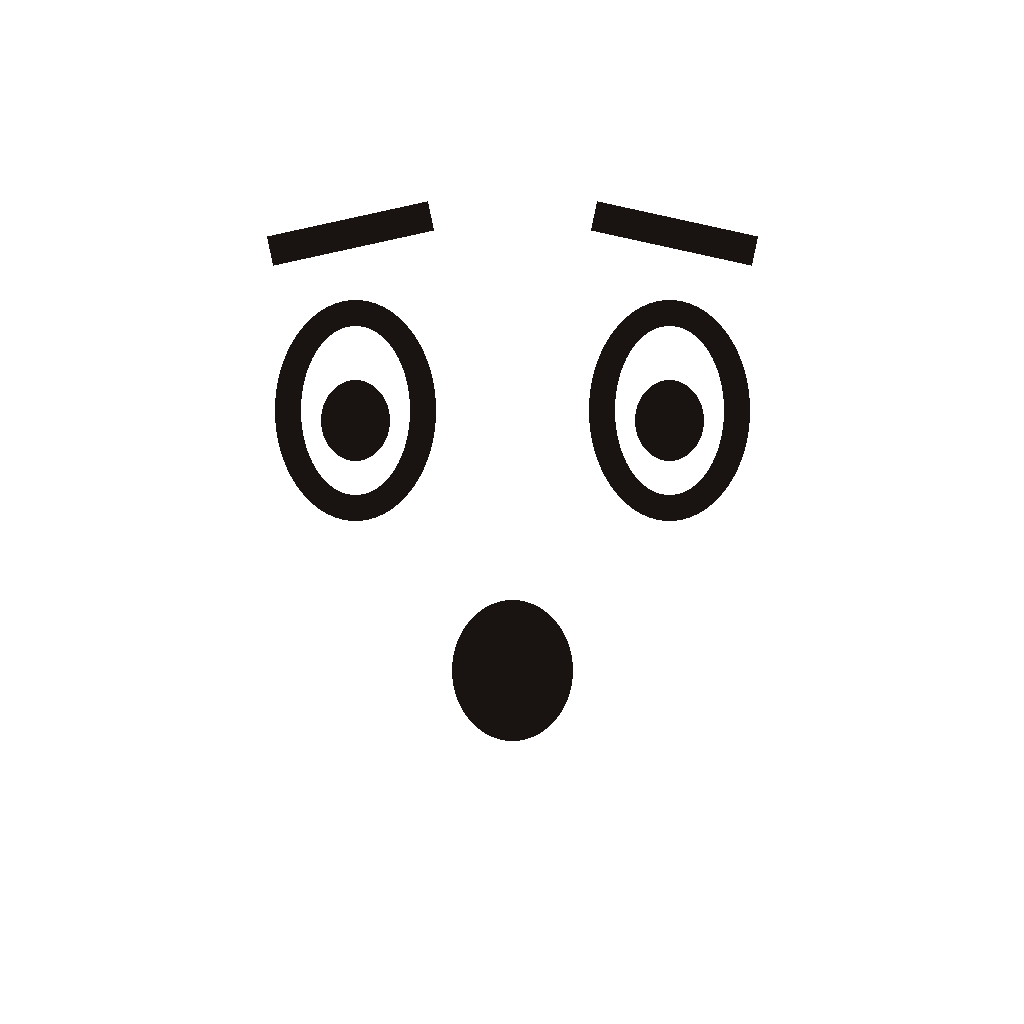
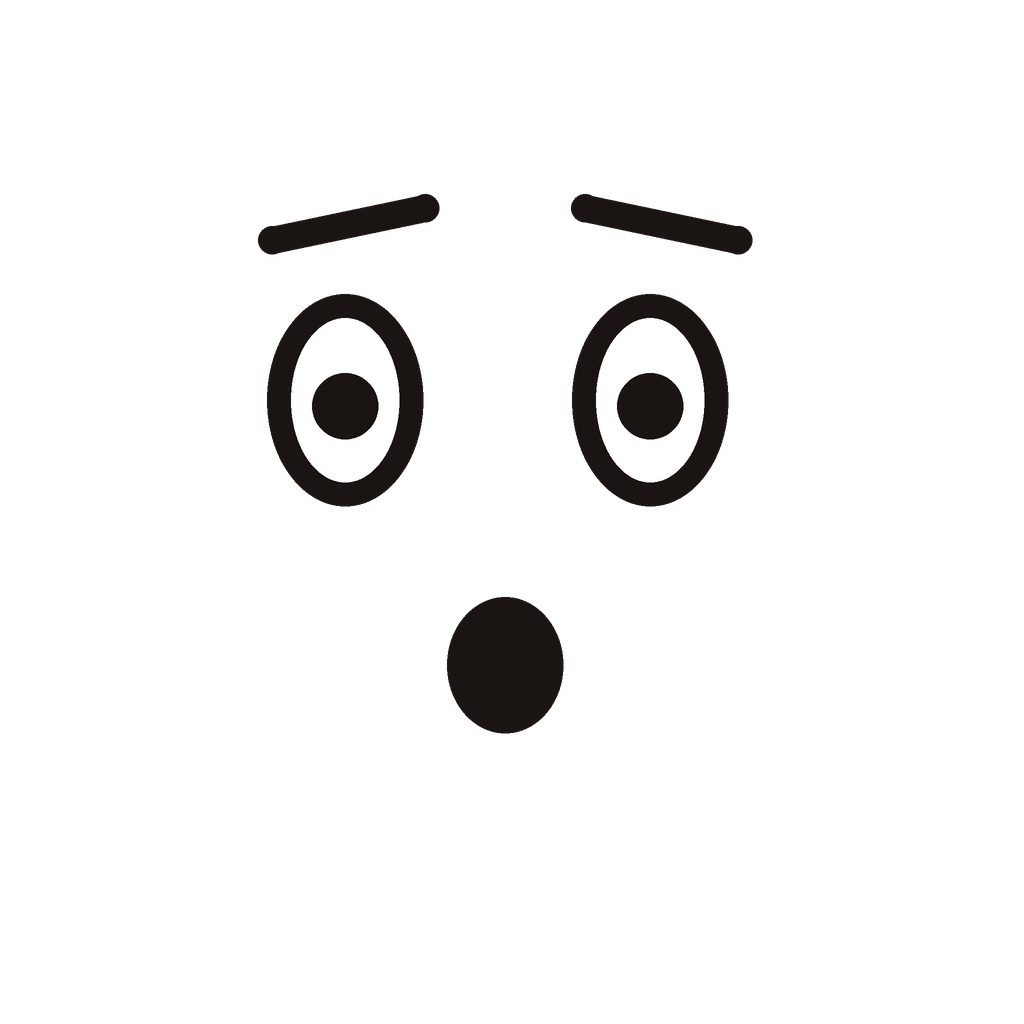
Expressive faces: 14 expressions plus reaction effects
faces.py draws the decals (smile, shock, big_eyes, happy, grin, sad, cry,
angry, annoyed, suspicious, nervous, embarrassed, determined, sleepy).
avatar.react() switches faces at a frame and adds effects: shock and
big_eyes pop the face and jolt the head, angry flushes the head red and
shakes it, cry drips tears.

Claude-Session: https://claude.ai/code/session_013G35NYefDXFSpUsSA2WUmV

diff --git a/pipeline/avatar.py b/pipeline/avatar.py
@@ -2,9 +2,11 @@
 build(D) returns {"root", pivot name -> empty ("torso", "waist", "head", "la", "la_elbow", ..., "rl_ankle"),
 "faces": {"smile", "shock"}, "grips": {"la", "ra"} -> empties in the hands to parent props to}.
 Rotating a pivot bends that joint; pivots have no rotation at rest so (-80, 0, 50) on "ra" raises the right arm."""
-import json, math
+import json, math, os, glob
 import bpy, bmesh
 from mathutils import Vector
+
+ASSETS = os.path.join(os.path.dirname(os.path.abspath(__file__)), "..", "assets") + "/"
 
 
 def _lin(c): return tuple(((x / 255 + 0.055) / 1.055) ** 2.4 if x / 255 > 0.04045 else x / 255 / 12.92 for x in c) + (1,)
@@ -74,18 +76,74 @@ def build(D, name="me"):
     bpy.ops.object.transform_apply(scale=True)
     bv = h.modifiers.new("b", "BEVEL"); bv.width = 0.32; bv.segments = 5; bv.limit_method = 'NONE'
     for p in h.data.polygons: p.use_smooth = True
-    h.data.materials.append(_material("av_skin", D, None, rig["skin"]))
+    # skin colour can blend towards red (angry) or pale blue (cold) via the "flush" mix factor
+    sm = _material("av_skin", D, None, rig["skin"]); nn = sm.node_tree.nodes
+    mix = nn.new("ShaderNodeMixRGB"); mix.name = "flush"; mix.inputs["Fac"].default_value = 0
+    mix.inputs["Color1"].default_value = _lin(rig["skin"]); mix.inputs["Color2"].default_value = _lin((235, 40, 30))
+    sm.node_tree.links.new(mix.outputs["Color"], nn["Principled BSDF"].inputs["Base Color"])
+    h.data.materials.append(sm)
     faces = {}
-    for k in ("smile", "shock"):
+    for k in sorted(os.path.basename(f)[5:-4] for f in glob.glob(ASSETS + "face_*.png")):
         m = bpy.data.materials.new("face_" + k); m.use_nodes = True; m.blend_method = 'CLIP'; m.shadow_method = 'CLIP'
-        nn = m.node_tree.nodes; img = nn.new("ShaderNodeTexImage"); img.image = bpy.data.images.load(D + f"face_{k}.png")
+        nn = m.node_tree.nodes; img = nn.new("ShaderNodeTexImage"); img.image = bpy.data.images.load(ASSETS + f"face_{k}.png")
         pb = nn["Principled BSDF"]; pb.inputs["Roughness"].default_value = 0.5
         m.node_tree.links.new(img.outputs["Color"], pb.inputs["Base Color"]); m.node_tree.links.new(img.outputs["Alpha"], pb.inputs["Alpha"])
         bpy.ops.mesh.primitive_plane_add(size=s[0] * 0.88, location=hc + Vector((0, -s[2] / 2 - 0.012, 0)), rotation=(math.radians(90), 0, 0))
         fo = bpy.context.active_object; fo.name = "face_" + k; fo.data.materials.append(m); fo.parent = head
         fo.location = hc + Vector((0, -s[2] / 2 - 0.012, 0))
         faces[k] = fo
-    faces["shock"].hide_render = True; faces["shock"].hide_viewport = True
+    for k, fo in faces.items(): fo.hide_render = fo.hide_viewport = k != "smile"
 
     grips = {k: _empty("grip_" + k, Vector(g) - Vector(J[k + "_wrist"]), piv[k + "_wrist"]) for k, g in rig["grips"].items()}
-    return {"root": root, **piv, "faces": faces, "grips": grips}
+    return {"root": root, **piv, "faces": faces, "grips": grips, "skin": sm, "face_pos": faces["smile"].location.copy(),
+            "eyes": [hc + Vector((x, -s[2] / 2 - 0.03, 0.06)) for x in (-0.22, 0.22)], "reacts": []}
+
+
+def react(av, face, f0, f1=None):
+    """Switch to an expression at frame f0 (held until the next react). Some faces add effects up to f1:
+    shock / big_eyes pop the face bigger, angry flushes the head red and shakes it, cry drips tears.
+    Faces: see faces.py (smile, shock, big_eyes, happy, grin, sad, cry, angry, annoyed, suspicious, nervous, ...)."""
+    f1 = f1 if f1 is not None else f0 + 45
+    prev = av["reacts"][-1][1] if av["reacts"] else "smile"
+    for k, fo in av["faces"].items():
+        if not av["reacts"]: _vis(fo, k == "smile", 0)
+        _vis(fo, k == prev, f0 - 1); _vis(fo, k == face, f0)
+    av["reacts"].append((f0, face))
+    fo = av["faces"][face]
+    if face in ("shock", "big_eyes"):
+        for f, sc in ((f0 - 1, 1.0), (f0 + 3, 1.28), (f0 + 8, 1.0)):
+            fo.scale = (sc, sc, sc); fo.keyframe_insert("scale", frame=f)
+        h = av["head"]; base = h.rotation_euler.copy()
+        for f, dx in ((f0, 0), (f0 + 3, -9), (f0 + 9, 0)):
+            h.rotation_euler = (base.x + math.radians(dx), base.y, base.z); h.keyframe_insert("rotation_euler", frame=f)
+    if face == "angry":
+        fac = av["skin"].node_tree.nodes["flush"].inputs["Fac"]
+        for f, v in ((f0, 0), (f0 + 10, 0.55), (f1 - 8, 0.55), (f1, 0)):
+            fac.default_value = v; fac.keyframe_insert("default_value", frame=f)
+        h = av["head"]; base = h.rotation_euler.copy()
+        for i, f in enumerate(range(f0 + 6, min(f1, f0 + 30), 2)):  # quick shake
+            h.rotation_euler = (base.x, base.y + math.radians(4 if i % 2 else -4), base.z); h.keyframe_insert("rotation_euler", frame=f)
+        h.rotation_euler = base; h.keyframe_insert("rotation_euler", frame=min(f1, f0 + 32))
+    if face == "cry":
+        _tears(av, f0, f1)
+
+
+def _vis(o, on, f):
+    o.hide_render = not on; o.keyframe_insert("hide_render", frame=f)
+    o.hide_viewport = not on; o.keyframe_insert("hide_viewport", frame=f)
+
+
+def _tears(av, f0, f1, every=7):
+    m = bpy.data.materials.get("tear") or _material("tear", "", None, (110, 185, 255))
+    m.node_tree.nodes["Principled BSDF"].inputs["Roughness"].default_value = 0.05
+    for i, f in enumerate(range(f0 + 4, f1 - 10, every)):
+        eye = av["eyes"][i % 2]
+        bpy.ops.mesh.primitive_uv_sphere_add(radius=0.055, segments=12, ring_count=8)
+        t = bpy.context.active_object; t.name = "tear"; t.data.materials.append(m); t.parent = av["head"]
+        t.scale = (0.8, 0.8, 1.3)
+        for fr, off, vis in ((f - 1, 0, False), (f, 0, True), (f + 12, -0.75, True), (f + 13, -0.75, False)):
+            t.location = eye + Vector((0, -0.02, off)); t.keyframe_insert("location", frame=fr)
+            t.hide_render = not vis; t.keyframe_insert("hide_render", frame=fr)
+        for fc in t.animation_data.action.fcurves:
+            for kp in fc.keyframe_points: kp.interpolation = 'QUAD' if fc.data_path == "location" else 'CONSTANT'
+        t.hide_render = True

diff --git a/pipeline/faces.py b/pipeline/faces.py
@@ -1,0 +1,141 @@
+"""Draws the avatar's expression decals into assets/face_<name>.png (1024x1024, transparent, classic Roblox style).
+Run: python3 faces.py  (writes every face; avatar.py loads them all and react() switches between them)."""
+import os, math
+from PIL import Image, ImageDraw
+
+OUT = os.path.join(os.path.dirname(os.path.abspath(__file__)), '..', 'assets')
+S = 2  # supersample for smooth edges
+INK, WHITE, TEAR, BLUSH, SWEAT = (26, 20, 18, 255), (255, 255, 255, 255), (90, 170, 255, 235), (240, 90, 100, 120), (150, 210, 255, 255)
+EYE_L, EYE_R, MOUTH_Y = 345, 650, 640   # face layout matches the original smile/shock decals
+
+
+def canvas(): return Image.new("RGBA", (1024 * S, 1024 * S), (0, 0, 0, 0))
+def s(*v): return [x * S for x in v]
+
+
+def ell(d, cx, cy, rx, ry, fill): d.ellipse(s(cx - rx, cy - ry, cx + rx, cy + ry), fill=fill)
+
+
+def thick(d, pts, w, fill=INK):
+    """Polyline with round caps and joints."""
+    d.line([tuple(s(*p)) for p in pts], fill=fill, width=w * S, joint="curve")
+    for p in (pts[0], pts[-1]): ell(d, p[0], p[1], w / 2, w / 2, fill)
+
+
+def arc(d, cx, cy, rx, ry, a0, a1, w, fill=INK, n=40):
+    thick(d, [(cx + rx * math.cos(math.radians(a0 + (a1 - a0) * i / n)), cy + ry * math.sin(math.radians(a0 + (a1 - a0) * i / n)))
+              for i in range(n + 1)], w, fill)
+
+
+def dot_eyes(d, ry=82, rx=47, shine=True):
+    for x in (EYE_L, EYE_R):
+        ell(d, x, 400, rx, ry, INK)
+        if shine: ell(d, x - 8, 360, 15, 24, WHITE)
+
+
+def big_eyes(d, r=(78, 106), pupil=38, look=(0, 6), ring=24):
+    for x in (EYE_L, EYE_R):
+        ell(d, x, 400, r[0], r[1], INK); ell(d, x, 400, r[0] - ring, r[1] - ring, WHITE)
+        ell(d, x + look[0], 400 + look[1], pupil, pupil, INK)
+
+
+def brows(d, l, r, w=28):
+    thick(d, l, w); thick(d, r, w)
+
+
+def face_smile(d):
+    brows(d, [(276, 254), (410, 254)], [(580, 254), (714, 254)]); dot_eyes(d); arc(d, 495, 545, 175, 165, 25, 155, 40)
+
+
+def face_shock(d):
+    brows(d, [(272, 240), (425, 208)], [(585, 208), (738, 240)]); big_eyes(d, r=(78, 106), pupil=33)
+    ell(d, 505, 665, 58, 68, INK)
+
+
+def face_big_eyes(d):  # huge "WHAT" eyes for sudden surprises
+    brows(d, [(250, 180), (420, 150)], [(590, 150), (760, 180)])
+    big_eyes(d, r=(118, 140), pupil=26, ring=26)
+    ell(d, 505, 700, 70, 88, INK); ell(d, 505, 728, 42, 40, (200, 70, 70, 255))
+
+
+def face_happy(d):  # eyes closed ^ ^, big open grin
+    brows(d, [(276, 230), (410, 222)], [(580, 222), (714, 230)])
+    for x in (EYE_L, EYE_R): arc(d, x, 420, 58, 52, 200, 340, 30)
+    d.chord(s(345, 520, 665, 760), 0, 180, fill=INK)
+    d.chord(s(380, 590, 630, 690), 0, 180, fill=WHITE)  # teeth along the top of the mouth
+    d.pieslice(s(430, 640, 580, 745), 200, 340, fill=(200, 70, 70, 255))
+
+
+def face_grin(d):  # smug / proud
+    brows(d, [(276, 250), (410, 240)], [(580, 222), (714, 250)]); dot_eyes(d, ry=70)
+    arc(d, 520, 560, 175, 110, 15, 150, 36); thick(d, [(355, 610), (330, 590)], 30)
+
+
+def face_sad(d):
+    brows(d, [(272, 270), (418, 222)], [(582, 222), (728, 270)]); dot_eyes(d, ry=74)
+    arc(d, 500, 760, 140, 105, 205, 335, 34)
+
+
+def face_cry(d):  # streaming tears, wobbly mouth
+    brows(d, [(272, 270), (418, 215)], [(582, 215), (728, 270)])
+    for x in (EYE_L, EYE_R):
+        arc(d, x, 395, 60, 46, 200, 340, 30)
+        d.polygon([tuple(s(*p)) for p in ((x - 32, 430), (x + 32, 430), (x + 44, 1000), (x - 44, 1000))], fill=TEAR)
+    thick(d, [(390, 720), (430, 690), (470, 720), (510, 690), (550, 720), (590, 690), (630, 720)], 26)
+
+
+def face_angry(d):
+    brows(d, [(250, 250), (430, 330)], [(580, 330), (760, 250)], w=36); dot_eyes(d, ry=66, shine=False)
+    d.rounded_rectangle(s(370, 640, 640, 730), radius=30 * S, fill=INK)
+    d.rounded_rectangle(s(392, 660, 618, 710), radius=12 * S, fill=WHITE)
+    for x in range(430, 600, 40): d.line(s(x, 660, x, 710), fill=INK, width=8 * S)  # gritted teeth
+
+
+def face_annoyed(d):  # flat half-lidded eyes
+    for x in (EYE_L, EYE_R):
+        ell(d, x, 410, 50, 60, INK); d.rectangle(s(x - 60, 330, x + 60, 395), fill=(0, 0, 0, 0))
+        thick(d, [(x - 62, 395), (x + 62, 395)], 24)
+    thick(d, [(410, 670), (600, 665)], 30)
+
+
+def face_suspicious(d):  # one brow up, eyes to the side
+    brows(d, [(276, 280), (410, 290)], [(580, 205), (714, 235)])
+    for x in (EYE_L, EYE_R):
+        ell(d, x, 410, 64, 52, INK); ell(d, x, 410, 42, 32, WHITE); ell(d, x + 22, 412, 22, 22, INK)
+    thick(d, [(420, 680), (520, 668), (600, 690)], 28)
+
+
+def face_nervous(d):  # wobbly smile and a sweat drop
+    brows(d, [(272, 262), (418, 228)], [(582, 228), (728, 262)]); big_eyes(d, r=(62, 80), pupil=22, ring=20)
+    thick(d, [(390, 690), (440, 665), (490, 690), (540, 665), (590, 690), (630, 668)], 24)
+    d.polygon([tuple(s(*p)) for p in ((820, 200), (775, 300), (865, 300))], fill=SWEAT); ell(d, 820, 310, 46, 46, SWEAT)
+
+
+def face_embarrassed(d):
+    face_nervous(d)
+    for x in (EYE_L - 40, EYE_R + 40): ell(d, x, 555, 85, 45, BLUSH)
+
+
+def face_determined(d):
+    brows(d, [(262, 270), (420, 300)], [(590, 300), (748, 270)], w=34); dot_eyes(d, ry=72)
+    arc(d, 505, 590, 120, 70, 20, 160, 34)
+
+
+def face_sleepy(d):
+    brows(d, [(276, 270), (410, 270)], [(580, 270), (714, 270)])
+    for x in (EYE_L, EYE_R): arc(d, x, 380, 60, 50, 20, 160, 28)
+    ell(d, 505, 680, 40, 30, INK)
+
+
+FACES = {k[5:]: v for k, v in globals().items() if k.startswith("face_")}
+
+
+def main():
+    for name, fn in FACES.items():
+        im = canvas(); fn(ImageDraw.Draw(im))
+        im.resize((1024, 1024), Image.LANCZOS).save(os.path.join(OUT, f"face_{name}.png"))
+    print("faces:", ", ".join(FACES))
+
+
+if __name__ == "__main__":
+    main()

diff --git a/pipeline/scene_dock_test.py b/pipeline/scene_dock_test.py
@@ -187,10 +187,8 @@ for o in bpy.data.objects:
     if o.animation_data and o.animation_data.action:
         for fc in o.animation_data.action.fcurves:
             for kp in fc.keyframe_points: kp.interpolation = 'BEZIER'; kp.easing = 'AUTO'
-# swap face to shock at freeze
-for f, smile in ((0, True), (95, True), (96, False)):
-    FACES["smile"].hide_render = not smile; FACES["smile"].keyframe_insert("hide_render", frame=f)
-    FACES["shock"].hide_render = smile; FACES["shock"].keyframe_insert("hide_render", frame=f)
+# reactions: curious about the remote, then big eyes when the world freezes
+avatar.react(av, "suspicious", 30); avatar.react(av, "grin", 60); avatar.react(av, "big_eyes", 96)
 
 # ---------------- cameras (cuts via markers) ----------------
 def camera(name, loc, target, lens, f0, fstop=2.8, focus=None, move=None):
